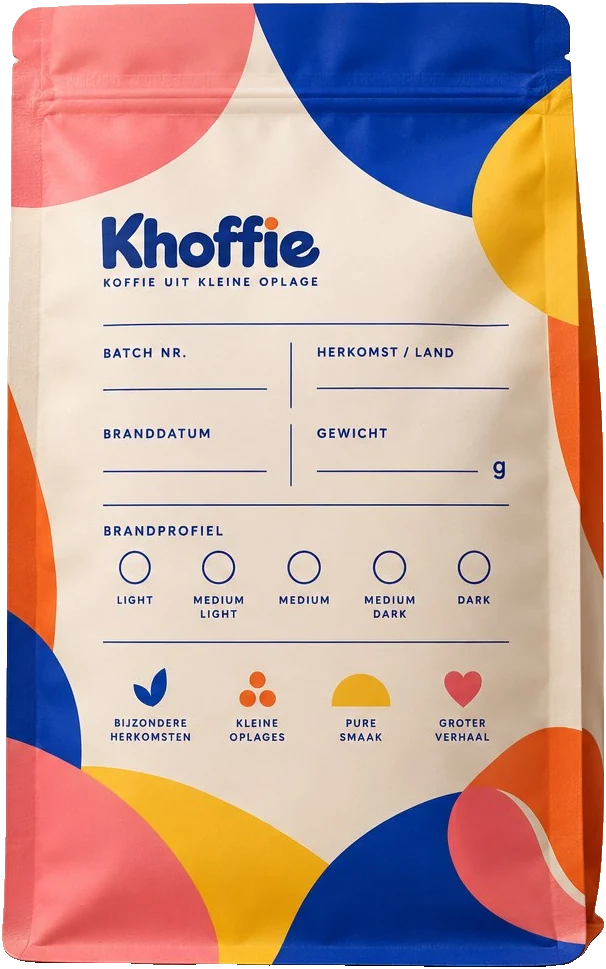
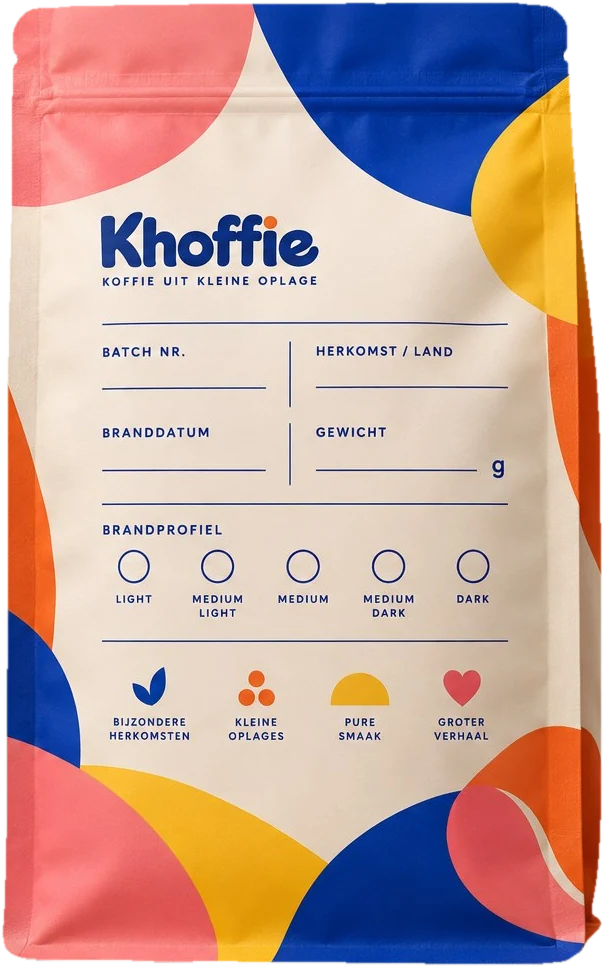
Koffiezakken: lichte rand langs de uitsnede weg, en nieuwe versie van opmaak en afbeeldingen altijd laden
Claude-Session: https://claude.ai/code/session_01NmVQwDGbuBxC8c4LBxzDEc

diff --git a/index.html b/index.html
@@ -14,7 +14,7 @@
   <link rel="apple-touch-icon" href="assets/img/apple-touch-icon.png">
   <link rel="preload" href="assets/fonts/fredoka.woff2" as="font" type="font/woff2" crossorigin>
   <link rel="stylesheet" href="assets/css/fonts.css">
-  <link rel="stylesheet" href="assets/css/style.css">
+  <link rel="stylesheet" href="assets/css/style.css?v=2">
 </head>
 <body>
   <a class="visually-hidden" href="#main">Naar de inhoud</a>
@@ -65,7 +65,7 @@
           </ul>
         </div>
         <div class="hero-visual">
-          <img class="bag" src="assets/img/khoffie-zak-voorkant.webp" alt="Khoffie koffiezak: koffie uit kleine oplage" width="602" height="965">
+          <img class="bag" src="assets/img/khoffie-zak-voorkant.webp?v=2" alt="Khoffie koffiezak: koffie uit kleine oplage" width="602" height="965">
           <div class="note">
             <span class="note-kicker"><span class="pulse" aria-hidden="true"></span>Deze maand</span>
             <span class="note-title">Top secret.</span>
@@ -151,7 +151,7 @@
     <section class="section">
       <div class="wrap split">
         <div class="label-visual reveal">
-          <img src="assets/img/khoffie-zak-achterkant.webp" alt="Achterkant van de Khoffie-zak met batchnummer, herkomst, branddatum, brandprofiel en gewicht" width="606" height="969" loading="lazy">
+          <img src="assets/img/khoffie-zak-achterkant.webp?v=2" alt="Achterkant van de Khoffie-zak met batchnummer, herkomst, branddatum, brandprofiel en gewicht" width="606" height="969" loading="lazy">
         </div>
         <div class="reveal">
           <div class="section-head" style="margin-bottom:32px">

diff --git a/over-ons.html b/over-ons.html
@@ -14,7 +14,7 @@
   <link rel="apple-touch-icon" href="assets/img/apple-touch-icon.png">
   <link rel="preload" href="assets/fonts/fredoka.woff2" as="font" type="font/woff2" crossorigin>
   <link rel="stylesheet" href="assets/css/fonts.css">
-  <link rel="stylesheet" href="assets/css/style.css">
+  <link rel="stylesheet" href="assets/css/style.css?v=2">
 </head>
 <body>
   <a class="visually-hidden" href="#main">Naar de inhoud</a>
@@ -114,7 +114,7 @@
     <section class="section section--alt">
       <div class="wrap split">
         <div class="label-visual reveal">
-          <img src="assets/img/khoffie-zak-achterkant.webp" alt="Achterkant van de Khoffie-zak met handgeschreven batchgegevens" width="606" height="969" loading="lazy">
+          <img src="assets/img/khoffie-zak-achterkant.webp?v=2" alt="Achterkant van de Khoffie-zak met handgeschreven batchgegevens" width="606" height="969" loading="lazy">
         </div>
         <div class="reveal">
           <span class="kicker">Ons proces</span>

diff --git a/hoe-het-werkt.html b/hoe-het-werkt.html
@@ -14,7 +14,7 @@
   <link rel="apple-touch-icon" href="assets/img/apple-touch-icon.png">
   <link rel="preload" href="assets/fonts/fredoka.woff2" as="font" type="font/woff2" crossorigin>
   <link rel="stylesheet" href="assets/css/fonts.css">
-  <link rel="stylesheet" href="assets/css/style.css">
+  <link rel="stylesheet" href="assets/css/style.css?v=2">
 </head>
 <body>
   <a class="visually-hidden" href="#main">Naar de inhoud</a>
@@ -192,7 +192,7 @@
     <section class="section section--alt">
       <div class="wrap split">
         <div class="label-visual reveal">
-          <img src="assets/img/khoffie-zakken.webp" alt="Voor- en achterkant van de Khoffie-zak" width="1274" height="971" loading="lazy">
+          <img src="assets/img/khoffie-zakken.webp?v=2" alt="Voor- en achterkant van de Khoffie-zak" width="1274" height="971" loading="lazy">
         </div>
         <div class="reveal">
           <span class="kicker">Tips van de brander</span>

diff --git a/account.html b/account.html
@@ -15,7 +15,7 @@
   <link rel="apple-touch-icon" href="assets/img/apple-touch-icon.png">
   <link rel="preload" href="assets/fonts/fredoka.woff2" as="font" type="font/woff2" crossorigin>
   <link rel="stylesheet" href="assets/css/fonts.css">
-  <link rel="stylesheet" href="assets/css/style.css">
+  <link rel="stylesheet" href="assets/css/style.css?v=2">
 </head>
 <body>
   <a class="visually-hidden" href="#main">Naar de inhoud</a>

diff --git a/algemene-voorwaarden.html b/algemene-voorwaarden.html
@@ -14,7 +14,7 @@
   <link rel="apple-touch-icon" href="assets/img/apple-touch-icon.png">
   <link rel="preload" href="assets/fonts/fredoka.woff2" as="font" type="font/woff2" crossorigin>
   <link rel="stylesheet" href="assets/css/fonts.css">
-  <link rel="stylesheet" href="assets/css/style.css">
+  <link rel="stylesheet" href="assets/css/style.css?v=2">
 </head>
 <body>
   <a class="visually-hidden" href="#main">Naar de inhoud</a>

diff --git a/cookies.html b/cookies.html
@@ -14,7 +14,7 @@
   <link rel="apple-touch-icon" href="assets/img/apple-touch-icon.png">
   <link rel="preload" href="assets/fonts/fredoka.woff2" as="font" type="font/woff2" crossorigin>
   <link rel="stylesheet" href="assets/css/fonts.css">
-  <link rel="stylesheet" href="assets/css/style.css">
+  <link rel="stylesheet" href="assets/css/style.css?v=2">
 </head>
 <body>
   <a class="visually-hidden" href="#main">Naar de inhoud</a>

diff --git a/klantenservice.html b/klantenservice.html
@@ -14,7 +14,7 @@
   <link rel="apple-touch-icon" href="assets/img/apple-touch-icon.png">
   <link rel="preload" href="assets/fonts/fredoka.woff2" as="font" type="font/woff2" crossorigin>
   <link rel="stylesheet" href="assets/css/fonts.css">
-  <link rel="stylesheet" href="assets/css/style.css">
+  <link rel="stylesheet" href="assets/css/style.css?v=2">
 </head>
 <body>
   <a class="visually-hidden" href="#main">Naar de inhoud</a>

diff --git a/privacy.html b/privacy.html
@@ -14,7 +14,7 @@
   <link rel="apple-touch-icon" href="assets/img/apple-touch-icon.png">
   <link rel="preload" href="assets/fonts/fredoka.woff2" as="font" type="font/woff2" crossorigin>
   <link rel="stylesheet" href="assets/css/fonts.css">
-  <link rel="stylesheet" href="assets/css/style.css">
+  <link rel="stylesheet" href="assets/css/style.css?v=2">
 </head>
 <body>
   <a class="visually-hidden" href="#main">Naar de inhoud</a>
